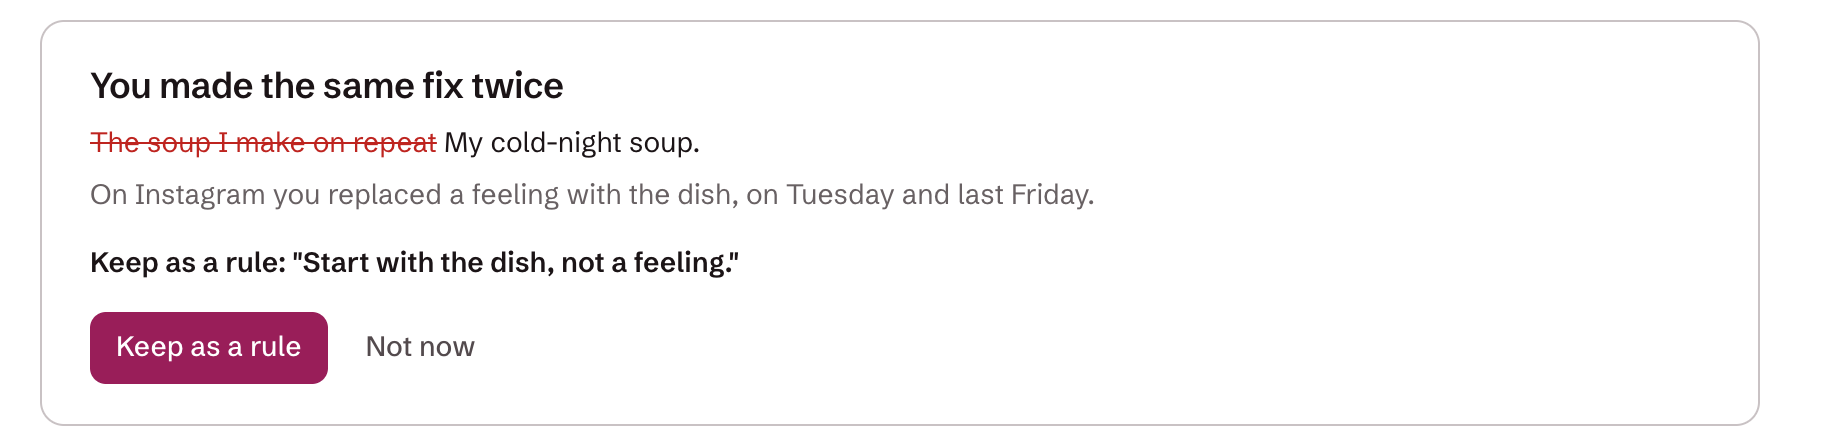
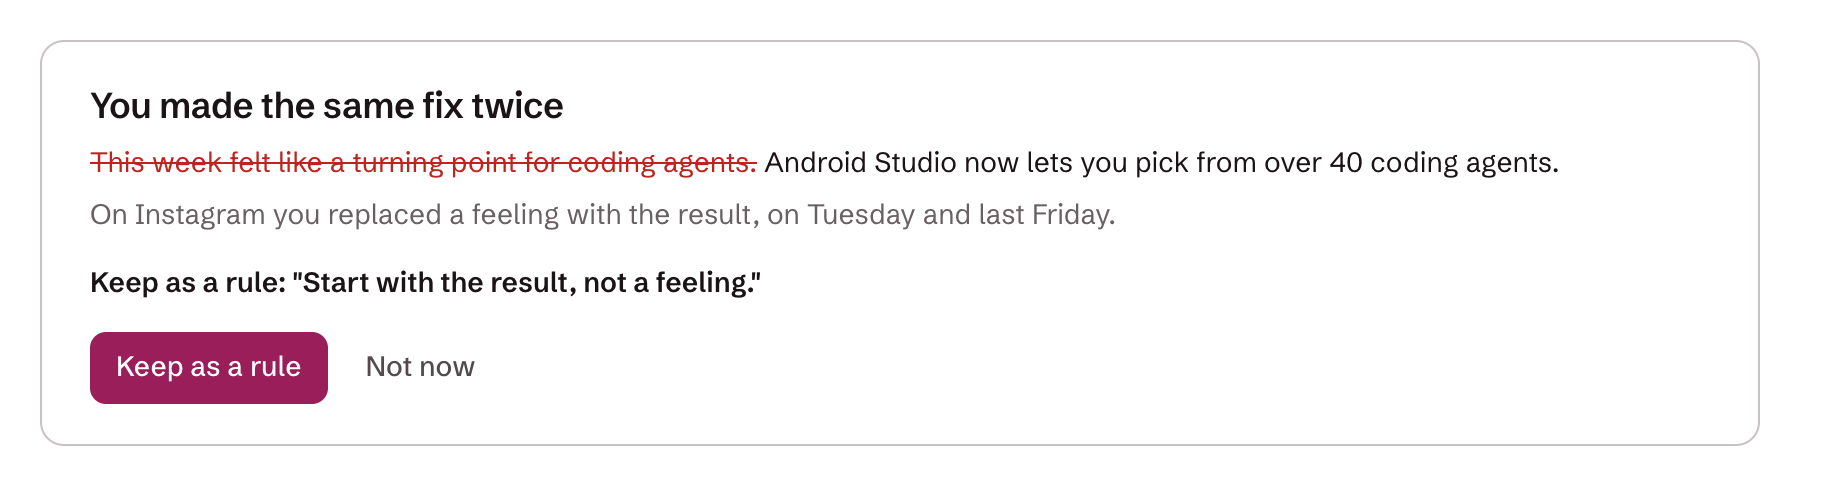
docs(readme): Show the AI newsletter example in every screenshot
The README still showed the old cooking example after the example account became Alex, who writes a weekly AI newsletter from real recent news. All nine screenshots are retaken on the live site, with metadata stripped.

- docs/media: hero, week, week-mobile, draft-check, learn, playbook, delivery, delivery-mobile, connect
- README.md: the draft window's alt text names the source it quotes

diff --git a/README.md b/README.md
@@ -23,7 +23,7 @@ Teach Queue Pilot your voice by pasting something you've written, or ask your co
 
 **2. Your AI writes drafts into the empty times.** From your newsletter, your videos and your own past posts. Every draft is saved in Buffer as a draft. Queue Pilot never schedules or publishes on its own. Only your Approve schedules, or your AI when you ask it.
 
-![A draft opened from the week: the post with its tag, the quotes from the newsletter behind each claim, the checks, the rules set for that account, and a Note](docs/media/draft-check.png)
+![A draft opened from the week: the post with its tag, the quote from Google's announcement behind each claim, the checks, the rules set for that account, and a Note](docs/media/draft-check.png)
 
 **3. It learns from the edits you make in Buffer.** Make the same kind of fix to two drafts, and Queue Pilot offers it as a rule, with your two edits as proof. It groups edits by what you meant, not by the exact words, so cutting "Excited to share" and cutting "Thrilled to share" count as the same fix.
 
